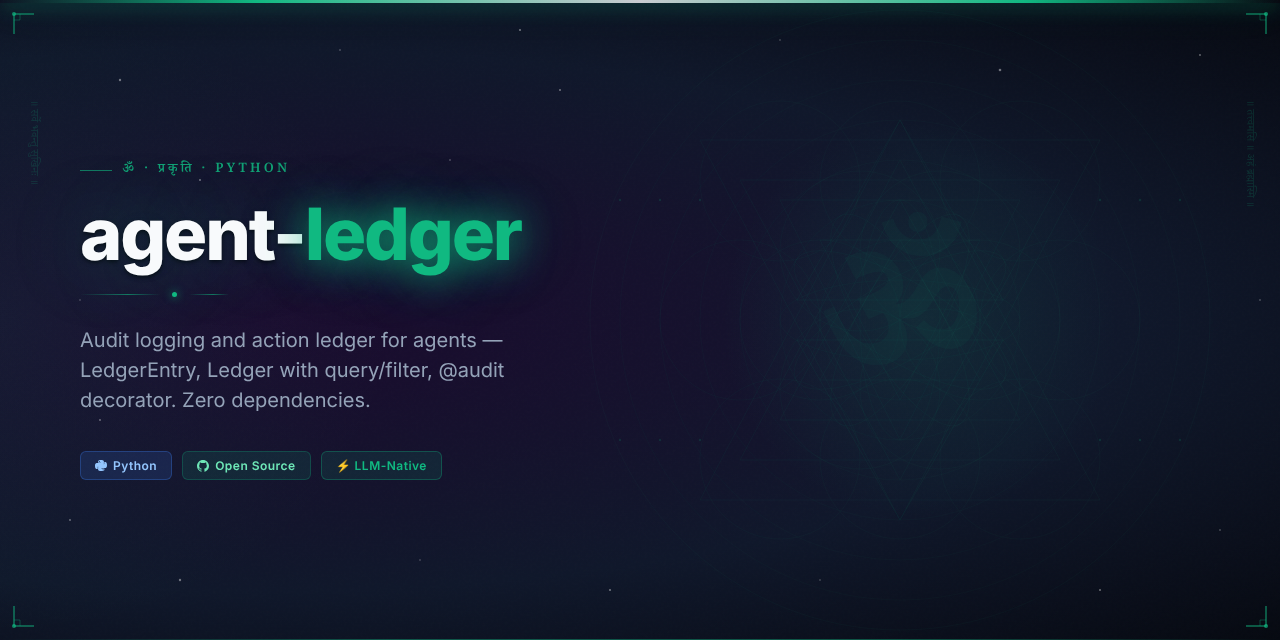
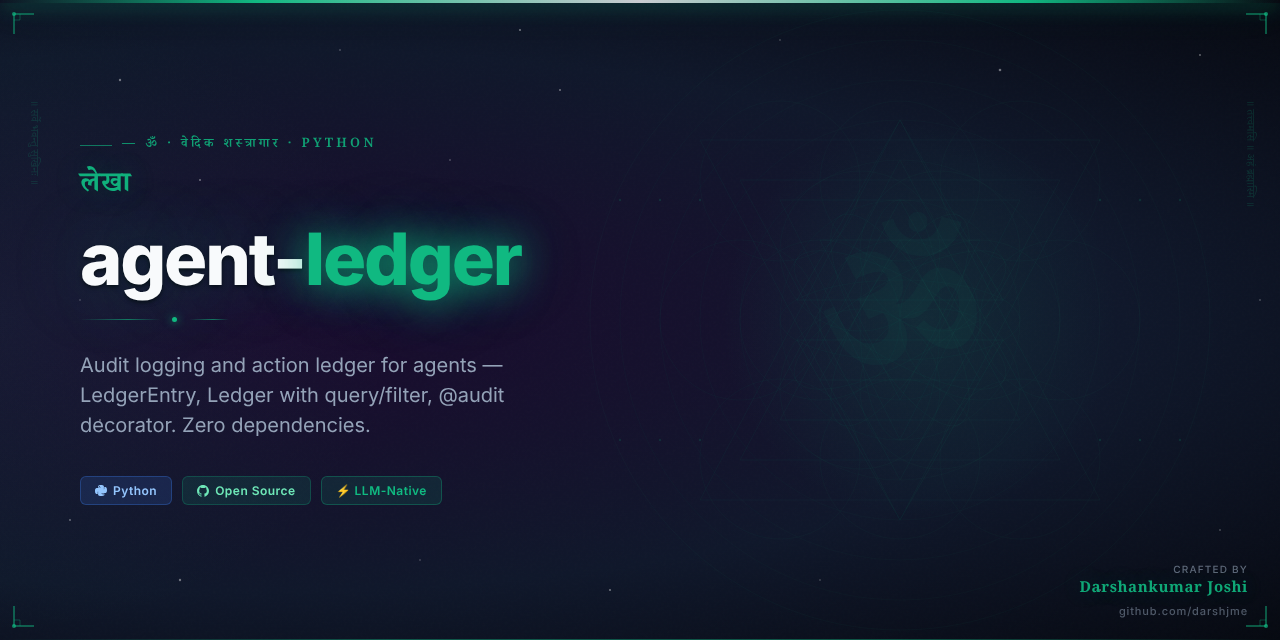
feat: add Vedic Arsenal hero image and updated README
Part of darshjme/arsenal — 100 production-grade Python libraries for LLM agents.
Vedic branding: ancient philosophy meets modern AI engineering.

diff --git a/README.md b/README.md
@@ -1,10 +1,12 @@
 <div align="center">
 
-<img src="assets/agent-ledger-hero.png" alt="agent-ledger — Vedic Arsenal" width="100%" />
+<img src="assets/agent-ledger-hero.png" alt="agent-ledger — Vedic Arsenal by Darshankumar Joshi" width="100%" />
 
 # 🌿 agent-ledger
 
-### *लेखा* — Lekha — the cosmic ledger of all actions
+<h3><em>लेखा</em></h3>
+
+> *Lekha — the cosmic ledger of all actions*
 
 **Audit logging and action ledger for agents — LedgerEntry, Ledger with query/filter, @audit decorator. Zero dependencies.**
 
@@ -39,6 +41,19 @@ Or clone directly:
 git clone https://github.com/darshjme/agent-ledger.git
 cd agent-ledger
 pip install -e .
+```
+
+## How It Works
+
+```mermaid
+flowchart LR
+    A[Input] --> B[agent-ledger]
+    B --> C{Process}
+    C -- Success --> D[Output]
+    C -- Error --> E[Handle / Retry]
+    E --> B
+    style B fill:#6b21a8,color:#fff
+    note["Ledger — Zero Dependencies"]
 ```
 
 ## Quick Start
@@ -90,7 +105,7 @@ MIT — use freely, build freely.
 
 <div align="center">
 
-**Built with 🌿 by [Darshankumar Joshi](https://github.com/darshjme)**
+**Built with 🌿 by [Darshankumar Joshi](https://github.com/darshjme)** · [@thedarshanjoshi](https://twitter.com/thedarshanjoshi)
 
 *"कर्मण्येवाधिकारस्ते मा फलेषु कदाचन"*
 *Your right is to action alone, never to the fruits thereof.*
